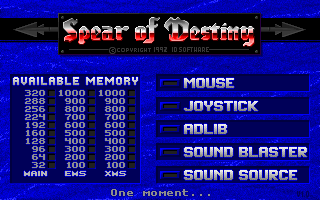
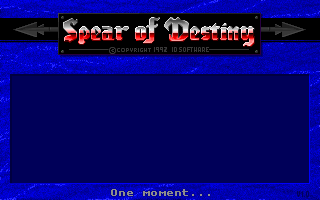
- Replaced the signon screen memory and devices readout with a blank area for a startup console (of course we don't have a console yet so we'll just display a static message).

diff --git a/src/wl_menu.cpp b/src/wl_menu.cpp
@@ -718,69 +718,6 @@ int CP_EndGame (int)
 }
 
 ////////////////////////////////////////////////////////////////////
-//
-// HANDLE INTRO SCREEN (SYSTEM CONFIG)
-//
-////////////////////////////////////////////////////////////////////
-static void IntroFill (int color, double x, double y, double w, double h)
-{
-	VirtualToRealCoords(x, y, w, h, 320, 200, false, true);
-	VWB_Clear (color, x, y, x+w, y+h);
-}
-static void MemeoryFill (int color, int basex, int basey)
-{
-	// To make color picking simple, pick the darkest color and then fill the
-	// value component of the color.  This isn't exactly equivalent, but it's
-	// good enough I think.
-
-	float r = RPART(color), g = GPART(color), b = BPART(color);
-	float h, s, v;
-
-	RGBtoHSV(r, g, b, &h, &s, &v);
-	float vstep = (255.0f - v)/10.0f;
-
-	for (int i = 0; i < 10; ++i)
-	{
-		HSVtoRGB(&r, &g, &b, h, s, v);
-		int pal = ColorMatcher.Pick(r, g, b);
-		IntroFill(pal, basex, basey - 8 * i, 6, 5);
-		v += vstep;
-	}
-}
-void IntroScreen (void)
-{
-	const int FILLCOLOR =
-		ColorMatcher.Pick(RPART(gameinfo.SignonColors[0]), GPART(gameinfo.SignonColors[0]), BPART(gameinfo.SignonColors[0]));
-
-	//
-	// DRAW MAIN MEMORY
-	//
-	MemeoryFill(gameinfo.SignonColors[1], 49, 163);
-	MemeoryFill(gameinfo.SignonColors[2], 89, 163);
-	MemeoryFill(gameinfo.SignonColors[3], 129, 163);
-
-
-	//
-	// FILL BOXES
-	//
-	if (MousePresent)
-		IntroFill(FILLCOLOR, 164, 82, 12, 2);
-
-	if (IN_JoyPresent())
-		IntroFill(FILLCOLOR, 164, 105, 12, 2);
-
-	if (AdLibPresent && !SoundBlasterPresent)
-		IntroFill(FILLCOLOR, 164, 128, 12, 2);
-
-	if (SoundBlasterPresent)
-		IntroFill(FILLCOLOR, 164, 151, 12, 2);
-
-//    if (SoundSourcePresent)
-//        VWB_Bar (164, 174, 12, 2, FILLCOLOR);
-}
-
-
-////////////////////////////////////////////////////////////////////
 ////////////////////////////////////////////////////////////////////
 //
 // SUPPORT ROUTINES

diff --git a/src/wl_main.cpp b/src/wl_main.cpp
@@ -39,6 +39,7 @@
 #include "wl_game.h"
 #include "dobject.h"
 #include "colormatcher.h"
+#include "version.h"
 
 /*
 =============================================================================
@@ -328,6 +329,19 @@ static void CollectGC()
 	GC::DelSoftRootHead();
 }
 
+static void DrawStartupConsole()
+{
+	static const char* const tempString = "        " GAMENAME " " DOTVERSIONSTR_NOREV "\n\n\nTo be replaced with console...\n\n  The memory thing was just\n     for show anyways.";
+
+	CA_CacheScreen(TexMan(gameinfo.SignonLump));
+
+	word width, height;
+	VW_MeasurePropString(ConFont, tempString, width, height);
+	px = 160-width/2;
+	py = 76+62-height/2;
+	VWB_DrawPropString(ConFont, tempString, CR_GRAY);
+}
+
 static void InitGame()
 {
 	// initialize SDL
@@ -368,9 +382,15 @@ static void InitGame()
 	atterm(R_DeinitColormaps);
 	GenerateLookupTables();
 
+	//
+	// Fonts
+	//
+	V_InitFonts();
+	atterm(V_ClearFonts);
+
 	// Setup a temporary window so if we have to terminate we don't do extra mode sets
 	VL_SetVGAPlaneMode (true);
-	CA_CacheScreen(TexMan(gameinfo.SignonLump));
+	DrawStartupConsole();
 
 #if defined _WIN32
 	if(!fullscreen)
@@ -391,9 +411,6 @@ static void InitGame()
 //
 // Fonts
 //
-	V_InitFonts();
-	atterm(V_ClearFonts);
-
 	VH_Startup ();
 	IN_Startup ();
 	SD_Startup ();
@@ -406,11 +423,6 @@ static void InitGame()
 
 	P_InitKeyMessages();
 	atterm(P_DeinitKeyMessages);
-
-//
-// draw intro screen stuff
-//
-	IntroScreen ();
 
 //
 // Finish with setting up through the config file.
@@ -437,7 +449,7 @@ static void InitGame()
 // Finish signon screen
 //
 	VL_SetVGAPlaneMode();
-	CA_CacheScreen(TexMan(gameinfo.SignonLump));
+	DrawStartupConsole();
 	VH_UpdateScreen();
 
 	if (!param_nowait)

diff --git a/src/g_mapinfo.cpp b/src/g_mapinfo.cpp
@@ -576,9 +576,6 @@ protected:
 			ParseStringAssignment(gameinfo.GamePalette);
 		else if(key.CompareNoCase("signon") == 0)
 			ParseStringAssignment(gameinfo.SignonLump);
-		else if(key.CompareNoCase("signoncolors") == 0)
-			// Fill, Main, EMS, XMS
-			ParseColorArrayAssignment(gameinfo.SignonColors, 4);
 		else if(key.CompareNoCase("menufade") == 0)
 			ParseColorAssignment(gameinfo.MenuFadeColor);
 		else if(key.CompareNoCase("menucolors") == 0)

diff --git a/src/wl_inter.h b/src/wl_inter.h
@@ -18,7 +18,6 @@ extern struct LRstruct
 	unsigned int time;
 } LevelRatios;
 
-void IntroScreen (void);
 void DrawHighScores(void);
 void CheckHighScore (int32_t score,word other);
 void Victory (bool fromIntermission);

diff --git a/src/g_mapinfo.h b/src/g_mapinfo.h
@@ -45,7 +45,6 @@ extern class GameInfo
 {
 public:
 	FString	SignonLump;
-	int		SignonColors[4];
 	int		MenuFadeColor;
 	int		MenuColors[6];
 	int		AdvisoryColor;
